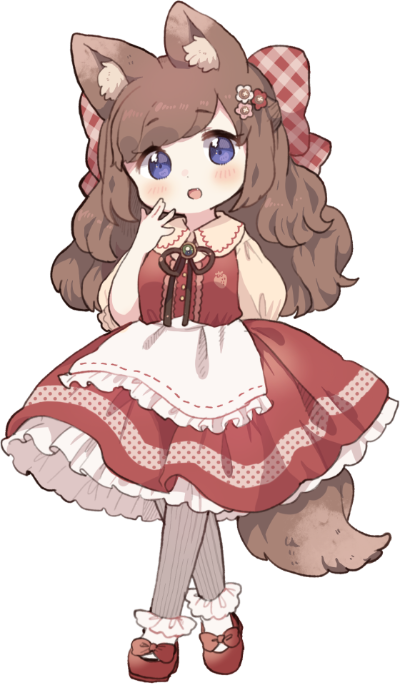
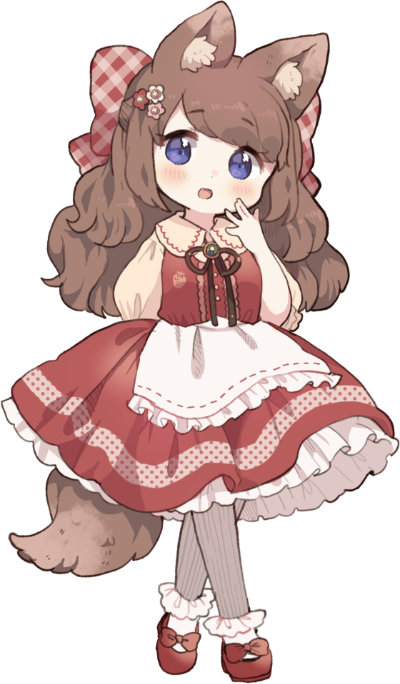
Added more art animation to home

diff --git a/src/app/home/home.component.scss b/src/app/home/home.component.scss
@@ -46,11 +46,19 @@
 		margin-top: 32px;
 	}
 
-	$cardWidth: 450px;
+	@keyframes home-art-falling-down {
+		0% {
+			opacity: 0;
+			transform: translateY(-50px);
+		}
+		100% {
+			opacity: 1;
+			transform: translateY(0px);
+		}
+	}
 
 	.art-0 {
 		position: absolute;
-		transform: scaleX(-1);
 		width: 210px;
 		top: -380px;
 		left: 0px;
@@ -62,6 +70,21 @@
 		top: -375px;
 		right: 0px;
 	}
+
+	&.fade-in {
+		.art-0,
+		.art-1 {
+			animation-name: home-art-falling-down;
+			animation-duration: 1s;
+			animation-timing-function: ease-out;
+			animation-fill-mode: both;
+		}
+		.art-1 {
+			animation-delay: 250ms;
+		}
+	}
+
+	$cardWidth: 450px;
 
 	.cards {
 		grid-template-columns: repeat(4, $cardWidth);

diff --git a/src/app/home/home.component.html b/src/app/home/home.component.html
@@ -5,7 +5,9 @@
 	</div>
 	<div class="cards">
 		<div>
-			<div style="position: relative; min-width: 360px">
+			<div
+				style="position: relative; min-width: 364px; min-height: 207px"
+			>
 				<a
 					href="https://skeb.jp/@mokarooru_0x0"
 					(contextmenu)="preventDefault($event)"
@@ -59,7 +61,9 @@
 			</div>
 		</div>
 		<div>
-			<div style="position: relative">
+			<div
+				style="position: relative; min-width: 352px; min-height: 318px"
+			>
 				<a
 					href="https://skeb.jp/@MyugummyCandy"
 					(contextmenu)="preventDefault($event)"

diff --git a/src/app/ui/dot-map/dot-map.component.scss b/src/app/ui/dot-map/dot-map.component.scss
@@ -48,13 +48,13 @@
 
 			@keyframes dot-map-pin-dance {
 				0% {
-					transform: rotate(5deg);
+					transform: rotate(10deg);
 				}
 				50% {
-					transform: rotate(-5deg);
+					transform: rotate(-10deg);
 				}
 				100% {
-					transform: rotate(5deg);
+					transform: rotate(10deg);
 				}
 			}
 

diff --git a/src/app/cards/instagram/instagram.component.html b/src/app/cards/instagram/instagram.component.html
@@ -1,4 +1,6 @@
-<app-spinner *ngIf="posts.length == 0"></app-spinner>
+<hstack>
+	<app-spinner *ngIf="posts.length == 0"></app-spinner>
+</hstack>
 <ng-container *ngIf="posts.length != 0">
 	<app-card-title
 		[href]="config.socialLinks.instagram"

diff --git a/TODO.md b/TODO.md
@@ -1,2 +1,3 @@
 -   add gitlab
 -   dancing letters get out of sync lol
+-   keep titles for instagram and twitter when js is disabled
